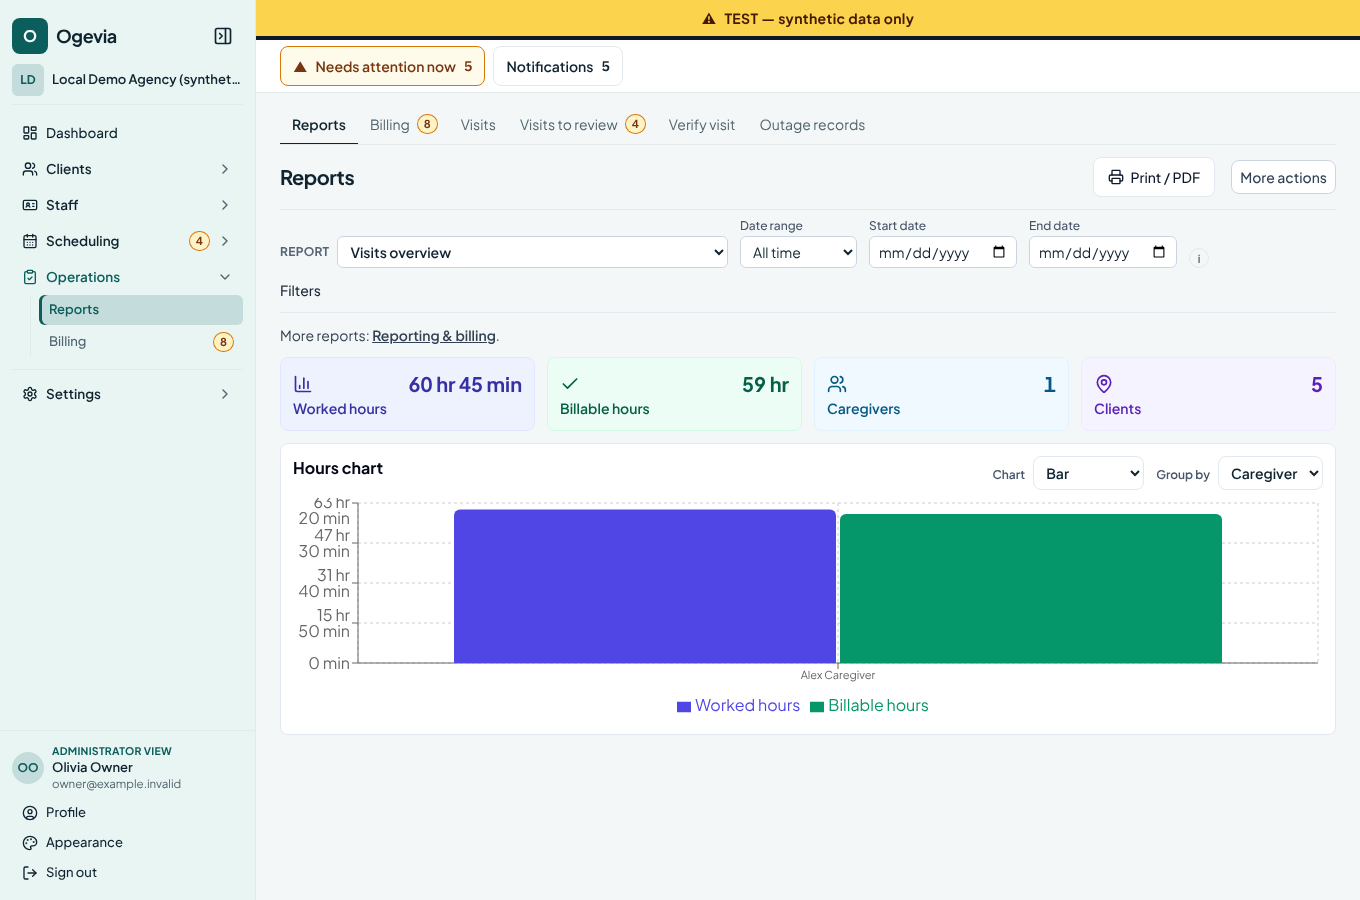
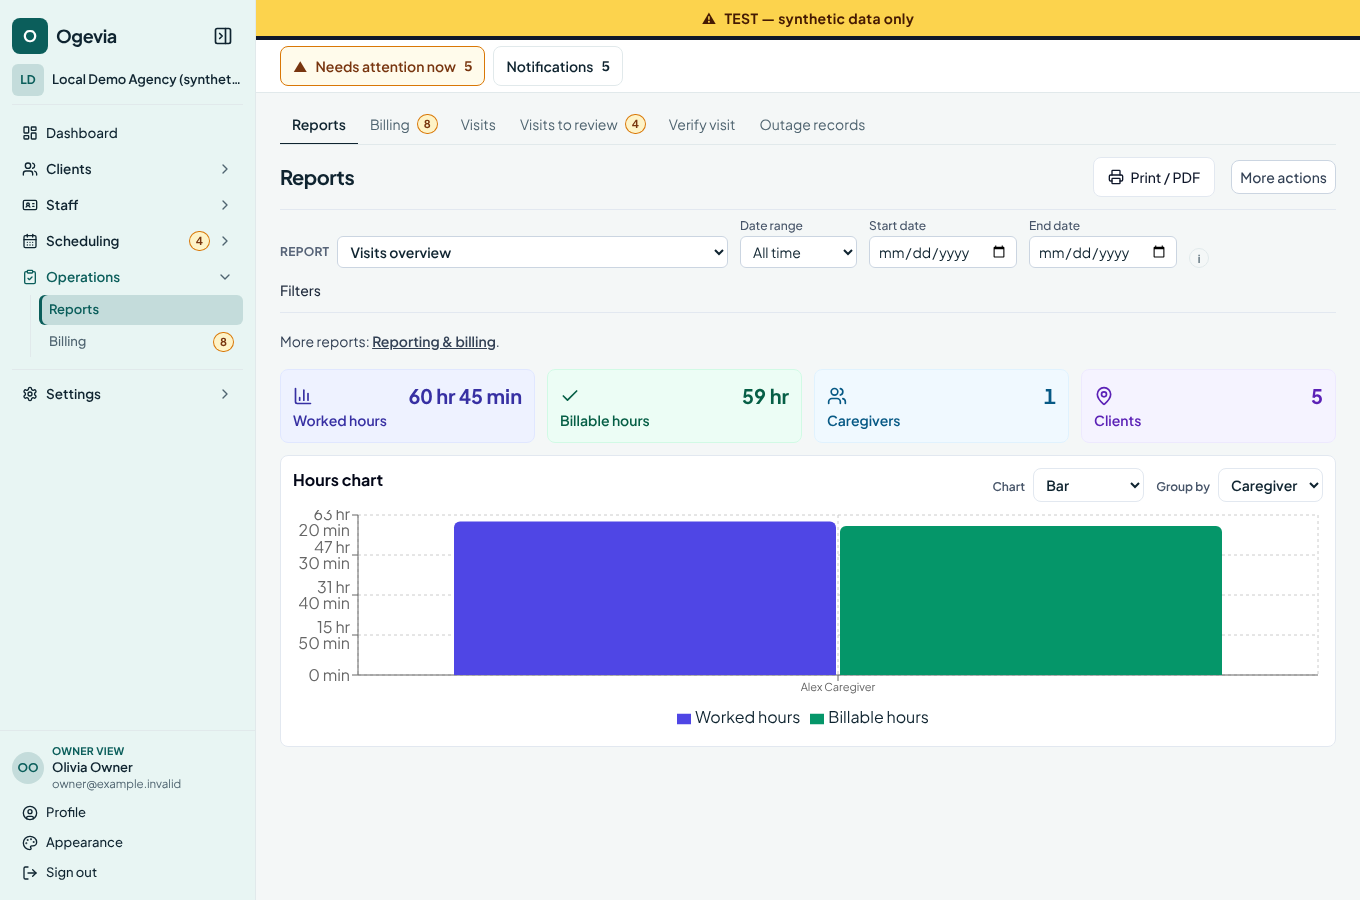
Owner view label, Reports legend contrast, larger Reporting & billing link target
- Footer label: Owner shows OWNER VIEW; the Administrator role shows ADMINISTRATOR VIEW.
- Reports chart legend text uses the page ink colour (series colour stays on the swatch).
- Reporting & billing link is 32px high (44px on touch).

Claude-Session: https://claude.ai/code/session_013FxuRRY7oU9t9wCxMuc4Hv

diff --git a/apps/web/src/pages/service-verification-reports-page.tsx b/apps/web/src/pages/service-verification-reports-page.tsx
@@ -187,6 +187,9 @@ function sumMinutes(
   return rows.reduce((total, row) => total + (row[key] ?? 0), 0);
 }
 
+/** Chart legend text in the page's own ink colour: the series colour is shown by the swatch, and coloured text on white or dark backgrounds does not reach the contrast a reader needs. */
+const legendText = (value: string) => <span className="text-og-ink">{value}</span>;
+
 function csvQuote(value: unknown) {
   return `"${String(value ?? "").replace(/"/g, '""')}"`;
 }
@@ -1628,7 +1631,7 @@ export function ServiceVerificationReportsPage() {
 
       {reportView === "overview" ? (
         <>
-          {awsApi ? <p className="text-sm text-slate-700" data-testid="reporting-hub-link">More reports: <Link className="font-semibold underline" to="/reporting">Reporting &amp; billing</Link>.</p> : null}
+          {awsApi ? <p className="text-sm text-slate-700" data-testid="reporting-hub-link">More reports: <Link className="inline-flex min-h-[32px] items-center font-semibold underline [@media(pointer:coarse)]:min-h-[44px]" to="/reporting">Reporting &amp; billing</Link>.</p> : null}
           <div className="grid gap-3 sm:grid-cols-2 lg:grid-cols-4">
             {[
               {
@@ -1734,7 +1737,7 @@ export function ServiceVerificationReportsPage() {
                         ))}
                       </Pie>
                       <Tooltip formatter={(value) => formatDuration(Number(value))} />
-                      <Legend />
+                      <Legend formatter={legendText} />
                     </PieChart>
                   ) : chartType === "line" ? (
                     <LineChart data={trendData}>
@@ -1742,7 +1745,7 @@ export function ServiceVerificationReportsPage() {
                       <XAxis dataKey="name" tick={{ fontSize: 11 }} />
                       <YAxis tickFormatter={(value) => formatDuration(Number(value))} />
                       <Tooltip formatter={(value) => formatDuration(Number(value))} />
-                      <Legend />
+                      <Legend formatter={legendText} />
                       <Line
                         type="monotone"
                         dataKey="workedMinutes"
@@ -1764,7 +1767,7 @@ export function ServiceVerificationReportsPage() {
                       <XAxis dataKey="name" tick={{ fontSize: 11 }} />
                       <YAxis tickFormatter={(value) => formatDuration(Number(value))} />
                       <Tooltip formatter={(value) => formatDuration(Number(value))} />
-                      <Legend />
+                      <Legend formatter={legendText} />
                       <Bar
                         dataKey="workedMinutes"
                         name="Worked hours"

diff --git a/apps/web/src/aws/aws-workspace.ts b/apps/web/src/aws/aws-workspace.ts
@@ -107,16 +107,17 @@ export interface UtilisationRow extends HoursFields {
   unusedValueCents: number | null;
 }
 
-export type ViewKind = "ADMINISTRATOR" | "MANAGER" | "SCHEDULER" | "CAREGIVER" | "STAFF";
+export type ViewKind = "OWNER" | "ADMINISTRATOR" | "MANAGER" | "SCHEDULER" | "CAREGIVER" | "STAFF";
 
 /** The view label comes from the server-provided role, never from the email. */
 export function viewKind(role: string | null): ViewKind {
   switch (role) {
-    // Internal role organization_owner is shown to people as Administrator.
+    // The view label uses the same names as Staff and Roles & Permissions: Owner, Administrator, Manager, ...
     case "organization_owner":
+      return "OWNER";
+    case "organization_admin":
       return "ADMINISTRATOR";
     case "manager":
-    case "organization_admin":
       return "MANAGER";
     case "scheduler":
     case "coordinator":
@@ -129,6 +130,7 @@ export function viewKind(role: string | null): ViewKind {
 }
 
 export const VIEW_TITLE: Record<ViewKind, string> = {
+  OWNER: "Owner",
   ADMINISTRATOR: "Administrator",
   MANAGER: "Manager",
   SCHEDULER: "Scheduler",

diff --git a/apps/web/src/aws/aws-app.test.tsx b/apps/web/src/aws/aws-app.test.tsx
@@ -241,10 +241,10 @@ describe("AWS build: manager review and billing-review data", () => {
     expect(api.calls.some((c) => c.path.startsWith("/v1/attention/overview?organizationId="))).toBe(true);
   });
 
-  it("organization_owner sees ADMINISTRATOR VIEW, the compact financial section without cost/margin, and Settings", async () => {
+  it("organization_owner sees OWNER VIEW, the compact financial section without cost/margin, and Settings", async () => {
     renderAws("/", "organization_owner");
-    expect(await screen.findByText("ADMINISTRATOR VIEW")).toBeInTheDocument();
-    expect(screen.queryByText("OWNER VIEW")).not.toBeInTheDocument();
+    expect(await screen.findByText("OWNER VIEW")).toBeInTheDocument();
+    expect(screen.queryByText("ADMINISTRATOR VIEW")).not.toBeInTheDocument();   // the Owner is not labelled Administrator
     expect(await screen.findByText("Financial impact")).toBeInTheDocument();
     expect(screen.getByText("$735")).toBeInTheDocument();
     // Caregiver cost and margin are not displayed as a value or as an "Unavailable" card; the reason sits in the definitions.

diff --git a/apps/web/src/aws/view-kind.test.ts b/apps/web/src/aws/view-kind.test.ts
@@ -1,0 +1,23 @@
+// The label under the person's name in the menu footer uses the same role names as Staff and Roles & Permissions.
+import { describe, expect, it } from "vitest";
+import { VIEW_TITLE, viewKind } from "./aws-workspace";
+
+describe("view label", () => {
+  it.each([
+    ["organization_owner", "OWNER"],
+    ["organization_admin", "ADMINISTRATOR"],
+    ["manager", "MANAGER"],
+    ["scheduler", "SCHEDULER"],
+    ["coordinator", "SCHEDULER"],
+    ["caregiver", "CAREGIVER"],
+    ["read_only", "STAFF"],
+    [null, "STAFF"],
+  ])("%s shows %s VIEW", (role, label) => {
+    expect(viewKind(role)).toBe(label);
+  });
+
+  it("the Owner is never labelled Administrator", () => {
+    expect(viewKind("organization_owner")).not.toBe("ADMINISTRATOR");
+    expect(VIEW_TITLE.OWNER).toBe("Owner");
+  });
+});

diff --git a/apps/web/src/aws/sidebar-home.test.tsx b/apps/web/src/aws/sidebar-home.test.tsx
@@ -140,7 +140,7 @@ describe("sidebar: expanded", () => {
     const nav = await screen.findByRole("navigation", { name: "Main" });
     openAll(nav);
     expect(within(nav).getByRole("link", { name: "Agency Settings" }).getAttribute("href")).toBe("/settings/branding");
-    expect(await screen.findByText("ADMINISTRATOR VIEW")).toBeInTheDocument();
+    expect(await screen.findByText("OWNER VIEW")).toBeInTheDocument();
     expect(screen.getByText("Synthetic Person")).toBeInTheDocument();
     expect(screen.getByText("person@example.test")).toBeInTheDocument();
     expect(screen.getByRole("link", { name: "Profile" }).getAttribute("href")).toBe("/profile");

diff --git a/apps/web/src/aws/aws-shell.tsx b/apps/web/src/aws/aws-shell.tsx
@@ -81,7 +81,7 @@ function initialsOf(name: string): string {
 
 /**
  * Shell for the AWS build: agency identity, the signed-in person and their view
- * (ADMINISTRATOR / MANAGER / CAREGIVER VIEW), ACTION NEEDED, and role-appropriate
+ * (OWNER / ADMINISTRATOR / MANAGER / CAREGIVER VIEW), ACTION NEEDED, and role-appropriate
  * navigation in a collapsible left-hand sidebar (a drawer below 768px). Navigation only decides what is
  * shown; every screen's data is authorized again in PostgreSQL.
  */

diff --git a/docs/releases/2026-10-26-redesign/REDESIGN_NOTES.md b/docs/releases/2026-10-26-redesign/REDESIGN_NOTES.md
@@ -77,7 +77,7 @@ Route ownership is unchanged (`apps/web/src/aws/aws-root.tsx`); no route, page, 
 ## 5. Findings to decide on (not changed)
 
 1. **The Administrator role has almost no permissions in the database** (`organization_admin`: only care-request management). The requested description "Operational management" would not be true, so the page describes what is enforced. Likewise Staff and Read-only have none. Changing role permissions is a database change and needs your decision.
-2. The Owner's footer still reads "ADMINISTRATOR VIEW" (a view label, not the role name); the role is shown as "Owner" on Staff and Roles & Permissions.
+2. ~~The Owner's footer reads "ADMINISTRATOR VIEW".~~ Fixed in the follow-up below.
 3. Staff screens and role assignment still allow one role per person.
 
 ## 6. Verification performed (local, synthetic data, local PostgreSQL; nothing deployed)
@@ -86,7 +86,7 @@ Real browser (`verify-redesign.mjs`, Chromium; desktop 1360 and EMULATED 390 pho
 
 Appearance matrix (`local-harness/appearance-matrix.mjs`: Large text and Compact density, Light/White/Soft gray/Dark, Standard/Minimal, desktop and phone):
 - First run, 4 screens, 128 runs: 16 runs with sideways page scroll, all on the phone Roles & Permissions page (screen-reader-only text inside the scrolling table escaped its box). **Fixed**; re-run of Roles & Permissions and Staff, 64 runs: 0 overflow, 0 low-contrast, 0 hidden alerts, 0 undersized controls.
-- Still open on Reports (Visits overview), in every combination: low text contrast on the coloured summary tiles ("Worked hours", "Billable hours") and one undersized link ("Reporting & billing", 18px high). Those lines were not changed by this branch (diff-checked, not re-measured on the starting commit). **Not fixed.**
+- Reports (Visits overview) had low text contrast in every combination and one undersized link. **Both fixed in the follow-up below.** Correction to an earlier statement: the contrast failure was the **chart legend** ("Worked hours", "Billable hours" drawn in the series colour, 3.8:1 or worse on white and dark), not the summary tiles; the tiles measure 7.1 to 8.9:1.
 - The script applied the requested appearance in 94 of 128 first-run combinations (64 of 64 in the re-run); the other first-run combinations were measured in the previous setting.
 
 ## 7. Automated tests (actual results)
@@ -99,9 +99,16 @@ Appearance matrix (`local-harness/appearance-matrix.mjs`: Large text and Compact
 
 - Real phone, real keyboard-only walkthrough, screen reader, print / Save as PDF of the changed Reports layout, the CSV file contents of the three exports (export logic and server call untouched; button is shown through a portal and its click is tested), TEST, Demo and Production.
 - Scheduler (holds `authorizations.read`) sees Agency Settings, which opens Services for them, because that is the only agency page their permissions allow; the old menu showed them Services too.
-- "ADMINISTRATOR VIEW" footer label for the Owner (section 5.2).
 - The Administrator role finding (section 5.1) is a data/permission decision, not changed here.
 
-## 9. Evidence
+## 9. Follow-up before TEST: three UI fixes (requested after review)
+
+1. **Owner label.** The footer now reads **OWNER VIEW** for the Owner. The role the app used to call "Administrator" in this label is the Owner; the Administrator role (`organization_admin`) previously showed as MANAGER VIEW and now shows **ADMINISTRATOR VIEW**, so the footer uses the same names as Staff and Roles & Permissions. Presentation only: `viewKind()` feeds nothing but this label. Test: `view-kind.test.ts`.
+2. **Reports contrast.** Chart legend text (all three chart types) is drawn in the page's ink colour with the series colour kept on the swatch. Measured with the appearance matrix on Reports and Dashboard, 64 runs (Large text and Compact, four backgrounds, Standard and Minimal, desktop and emulated phone): 0 low-contrast screens (was 32 of 32 on Reports).
+3. **Reporting & billing link.** Target is now 32px high with a mouse and 44px on touch (measured 124x32 and 124x44; was 124x18). Same matrix: 0 undersized controls (was 32).
+
+Re-run after the fixes: `@carelik/web` 129 files, **1263 tests passed**; repo typecheck and lint pass; web build passes; the real-browser check script is ALL PASS.
+
+## 10. Evidence
 
 `screenshots/before` (starting commit) and `screenshots/after` (this branch): desktop navigation (all groups open), Dashboard, Reports, Staff, Roles & Permissions; phone drawer, Reports, Staff, Roles & Permissions. Captured by `shots2.mjs` on the local harness as the synthetic Owner. Tool scripts: `shots2.mjs`, `verify-redesign.mjs`.
